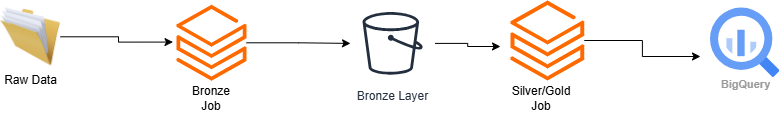
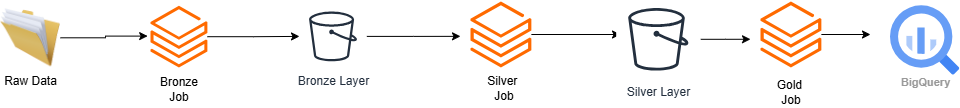
diagram fixed and style comments

diff --git a/scripts/silver_transformation.py b/scripts/silver_transformation.py
@@ -17,7 +17,7 @@ def transform_silver():
     df_trips = spark.read.parquet(f"{bronze_path}/yellow_trips")
     df_zones = spark.read.parquet(f"{bronze_path}/taxi_zones")
 
-    # 1. Limpeza e Filtros (Qualidade de Dados)
+    # 1. Limpeza e Filtros (Data Quality)
     # Removemos viagens sem passageiros, com distância zero ou valores negativos
     df_cleaned = df_trips.filter(
         (F.col("passenger_count") > 0) & 
@@ -25,7 +25,7 @@ def transform_silver():
         (F.col("total_amount") > 0)
     ).dropDuplicates()
 
-    # 2. Join com Zone Lookup (Enriquecimento)
+    # 2. Join com Zone Lookup (Enhricement)
     # Usamos broadcast join para otimizar, pois a tabela de zonas é minúscula
     zones_broadcast = F.broadcast(df_zones.select(
         F.col("LocationID"),
@@ -33,14 +33,14 @@ def transform_silver():
         F.col("Zone").alias("zone")
     ))
 
-    # Join para Pickup (Origem)
+    # Join para Pickup (Source)
     df_silver = df_cleaned.join(
         zones_broadcast, 
         df_cleaned.PULocationID == zones_broadcast.LocationID, 
         "left"
     ).withColumnRenamed("borough", "pickup_borough").withColumnRenamed("zone", "pickup_zone").drop("LocationID")
 
-    # Join para Dropoff (Destino)
+    # Join para Dropoff (Target)
     df_silver = df_silver.join(
         zones_broadcast, 
         df_silver.DOLocationID == zones_broadcast.LocationID, 
@@ -54,8 +54,7 @@ def transform_silver():
         (F.unix_timestamp("tpep_dropoff_datetime") - F.unix_timestamp("tpep_pickup_datetime")) / 60
     )
 
-    # 4. Salvando na Silver
-    # Salvamos em Parquet, podendo particionar por data de pickup para performance futura
+    # 4. Salvando na Silver    
     df_silver.write.mode("overwrite").parquet(f"{silver_path}/yellow_trips_silver")
     
     print(f"Camada Silver finalizada. Registros processados: {df_silver.count()}")

diff --git a/scripts/bronze_ingestion.py b/scripts/bronze_ingestion.py
@@ -12,7 +12,7 @@ def create_spark_session():
 def ingest_bronze():
     spark = create_spark_session()
     
-    # Caminhos (ajuste conforme sua pasta local)
+    # Caminhos
     raw_path = "./data/raw"
     bronze_path = "./data/bronze"
     
@@ -25,7 +25,7 @@ def ingest_bronze():
     df_zones.write.mode("overwrite").parquet(f"{bronze_path}/taxi_zones")
     print("- Taxi Zones: OK")
 
-    # 2. Ingestão do Yellow Taxi Trip Data (Parquet)
+    # 2. Ingestão do Yellow Taxi Trip Data
     # Lemos os arquivos originais
     df_trips = spark.read.parquet(f"{raw_path}/yellow_tripdata_2024-01.parquet")
     

diff --git a/README.md b/README.md
@@ -41,6 +41,7 @@ Plaintext
 ├── architecture/
 │   └── diagram.png             # Desenho da arquitetura
 └── README.md
+
 🚀 Como Executar
 1. Infraestrutura (Terraform)
 Para provisionar o ambiente na GCP:
@@ -51,6 +52,7 @@ cd terraform
 terraform init
 terraform plan
 terraform apply
+
 2. Pipeline de Dados (Local)
 Certifique-se de ter o pyspark instalado e o JAVA_HOME configurado.
 
